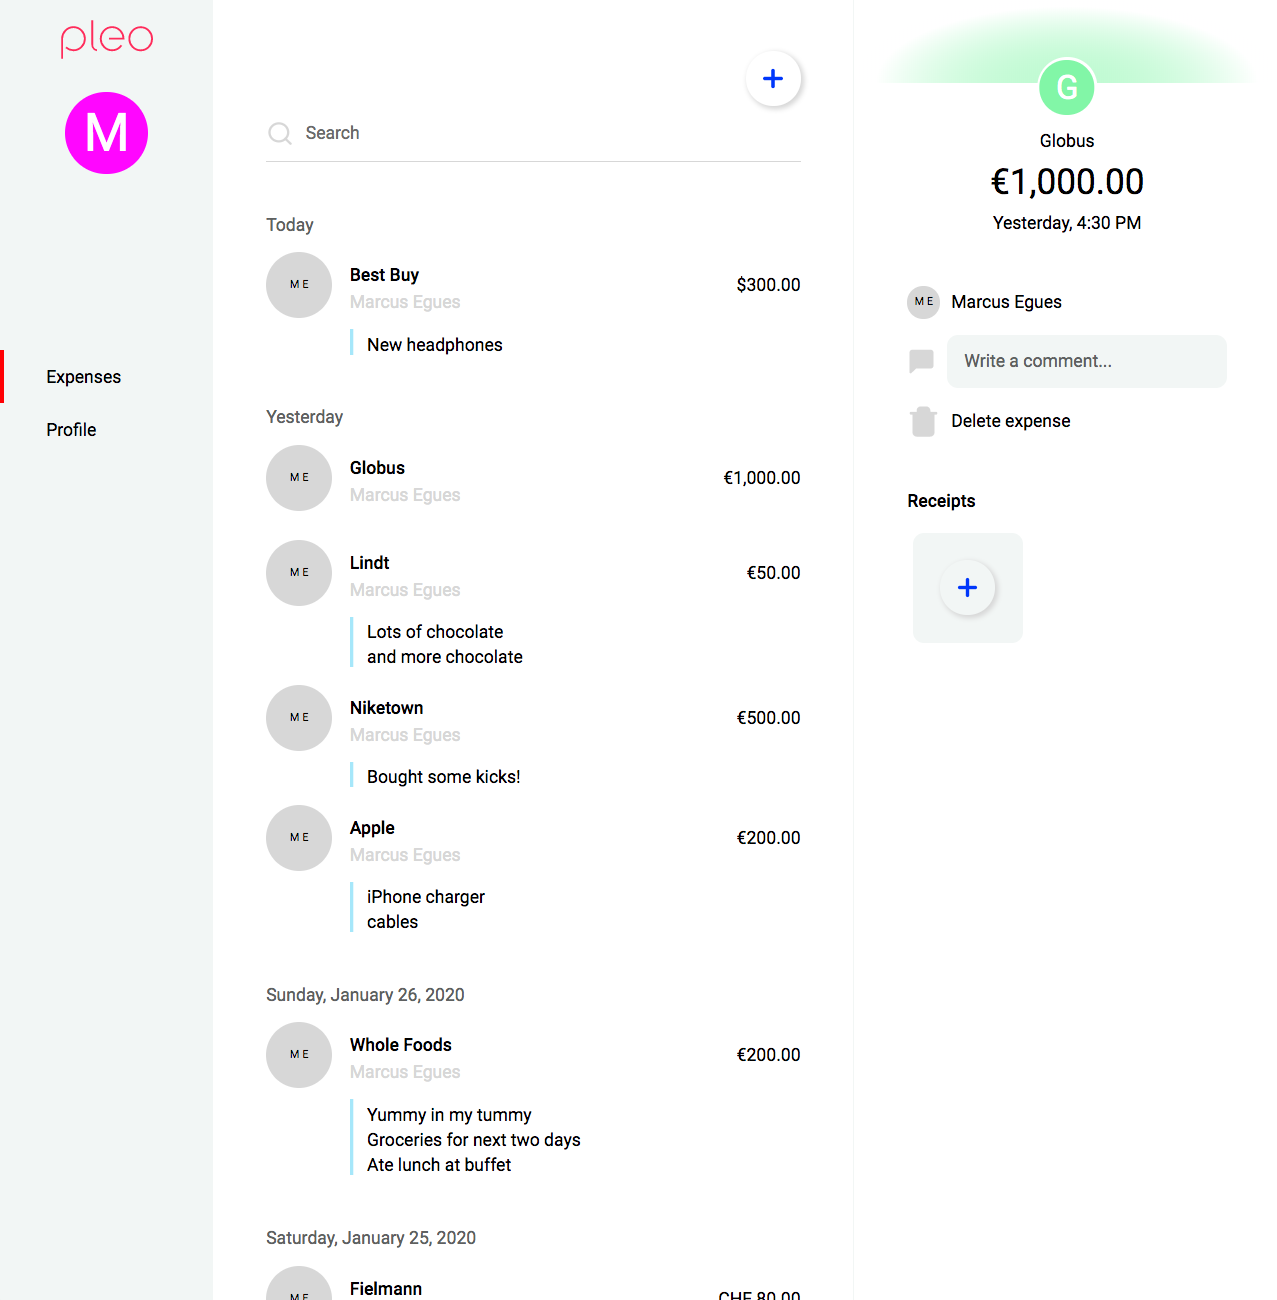
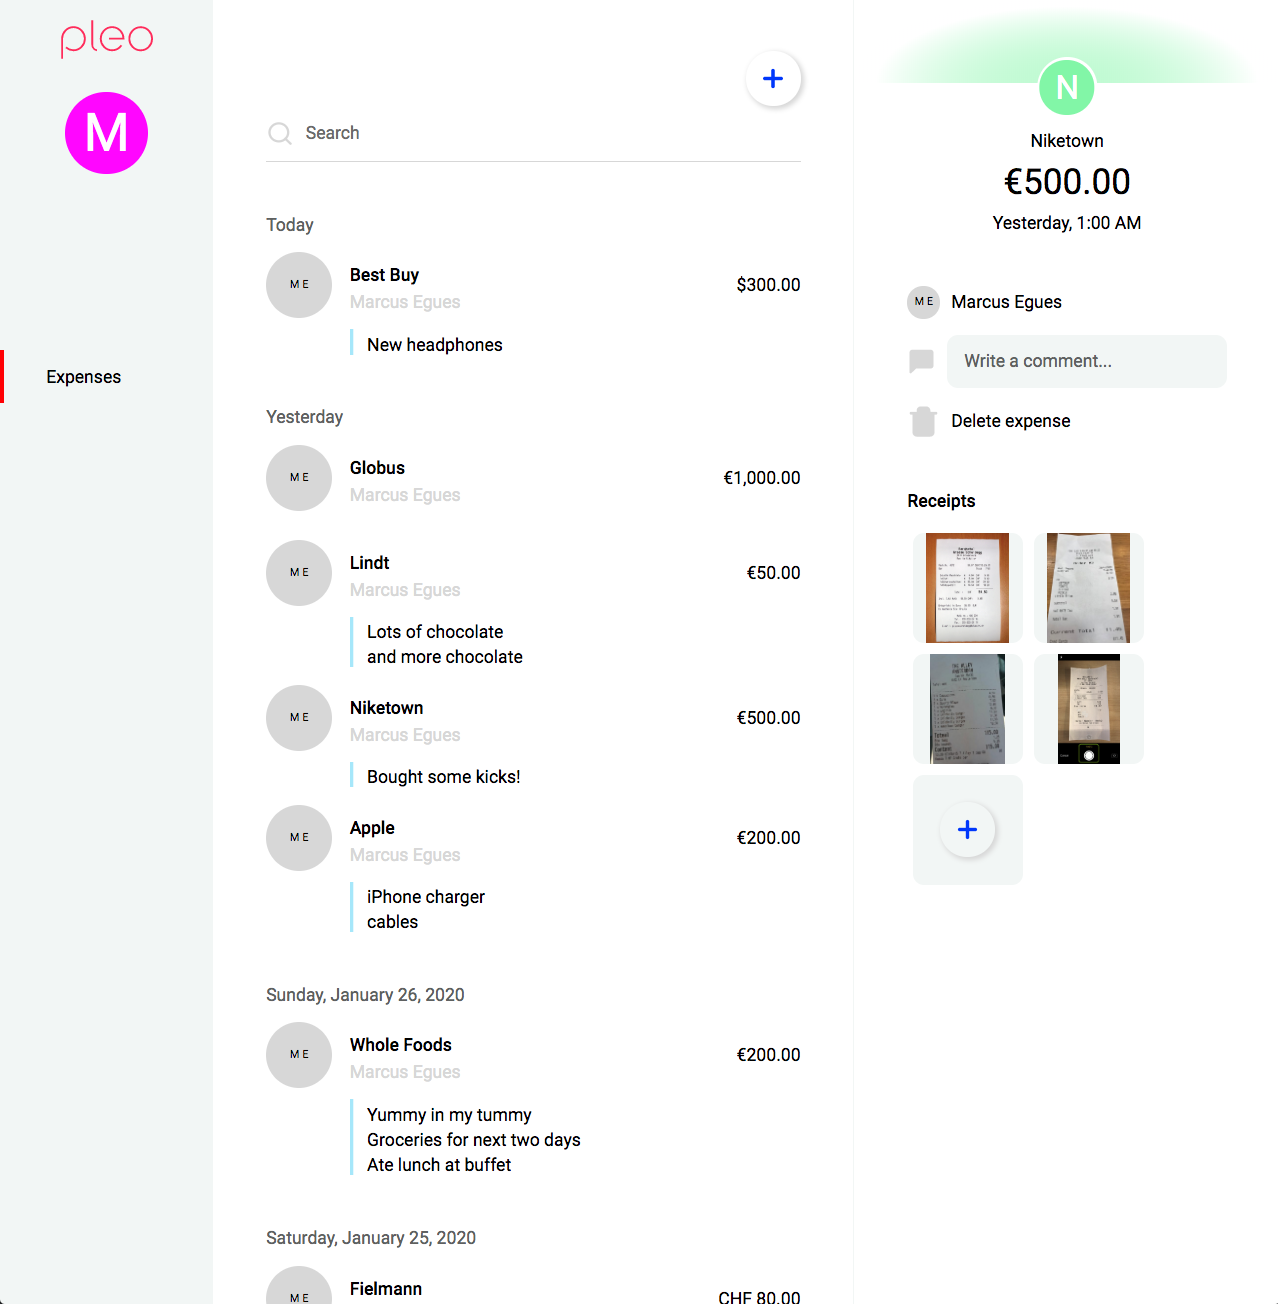
Add screenshot

diff --git a/apps/pleo-fe/src/components/Dashboard/Dashboard.tsx b/apps/pleo-fe/src/components/Dashboard/Dashboard.tsx
@@ -13,6 +13,6 @@ const Container = styled.div`
 export const Dashboard = () => (
   <Container>
     <SideNav />
-    <Route to="/expenses" component={ExpensesContainer} />
+    <Route path="/expenses" component={ExpensesContainer} />
   </Container>
 );

diff --git a/apps/pleo-fe/src/components/SideNav/subcomponents/Links.tsx b/apps/pleo-fe/src/components/SideNav/subcomponents/Links.tsx
@@ -38,7 +38,6 @@ export const Links = () => {
   return (
     <Container>
       <SideNavLink to={'/expenses'} text={'Expenses'} />
-      <SideNavLink to={'/profile'} text={'Profile'} />
     </Container>
   );
 };
